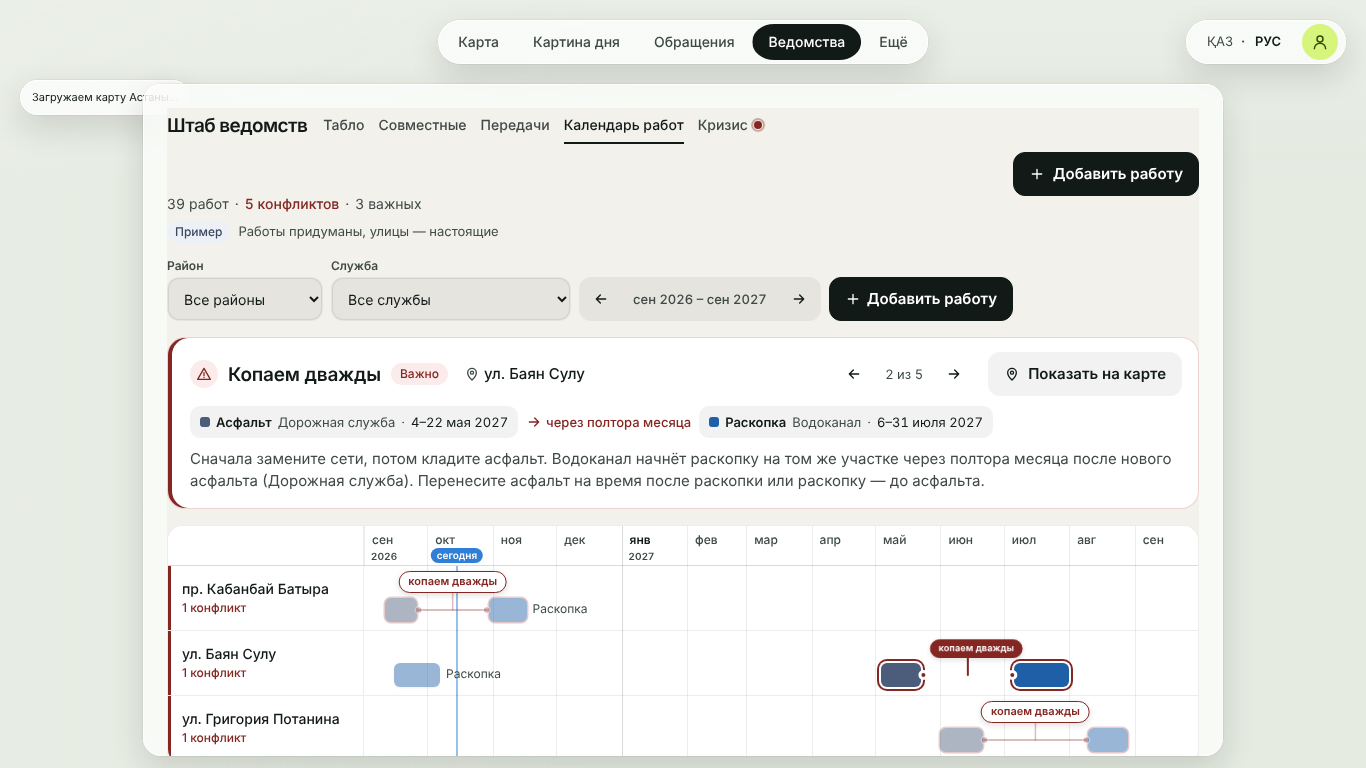
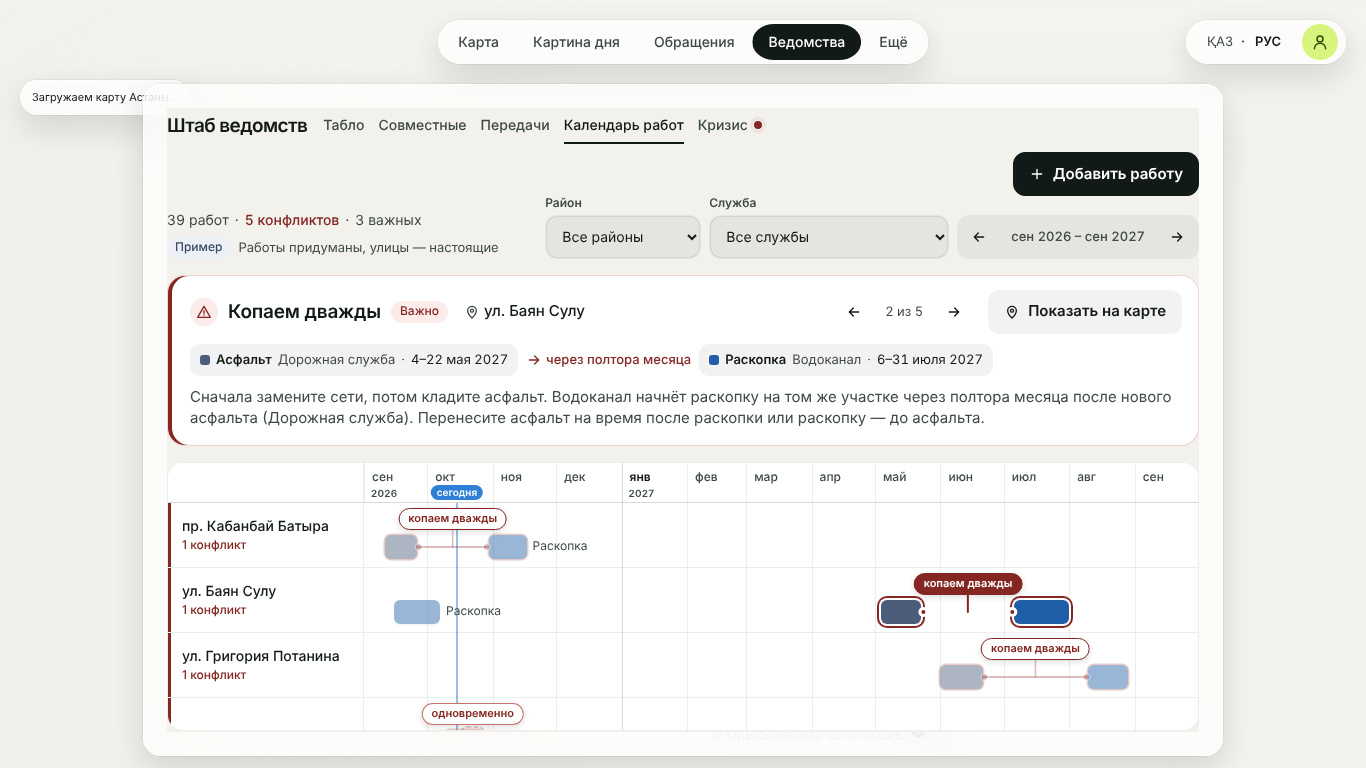
R12 r15 delivery 8: DELIVERY/STATUS/INTEGRATION — one main button in the R17 tab, embedded frame refreshed
Claude-Session: https://claude.ai/code/session_01HYZ9pik5xh3zwZ1SbZ8T2J

diff --git a/research/handoffs/astana/R12/round15/STATUS.md b/research/handoffs/astana/R12/round15/STATUS.md
@@ -86,4 +86,4 @@
 - старт: e91acb69 (основа)
 - чекпойнт 1: cc104525 (движок); чекпойнт 2: dfe2724d (экран); поставка 1: код 24140de8 (DELIVERY.json)
 - поставка 2: 6b083114; 3: 9090eb8d; 4: 3ac2af66; 5: 1c8d171d; 6 (B-103): 11a5d0ff; 7 (B0 + мир): b549f696;
-  8 (сцена 8, R06, R17, R03): d4e968ce
+  8 (сцена 8, R06, R17, R03): d4e968ce → kk-названия в две строки d6d72354 → одна главная кнопка во вкладке R17 5dcb8f48
